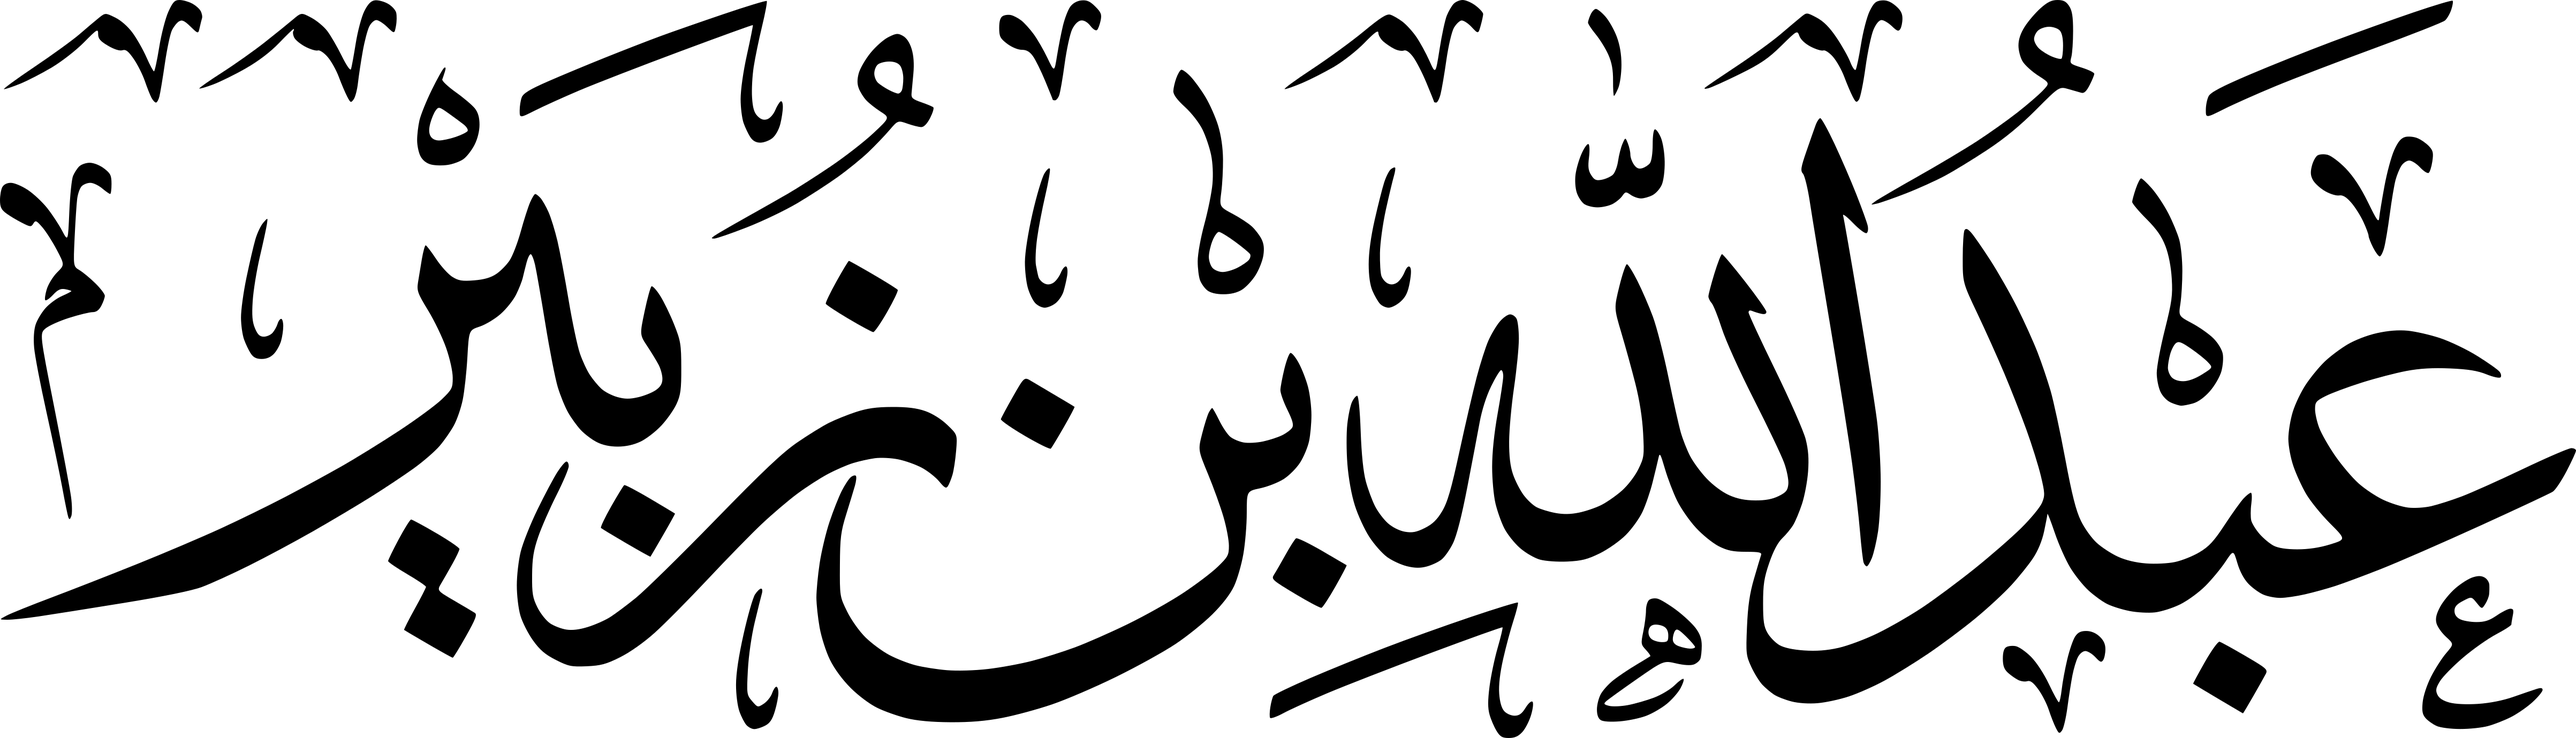
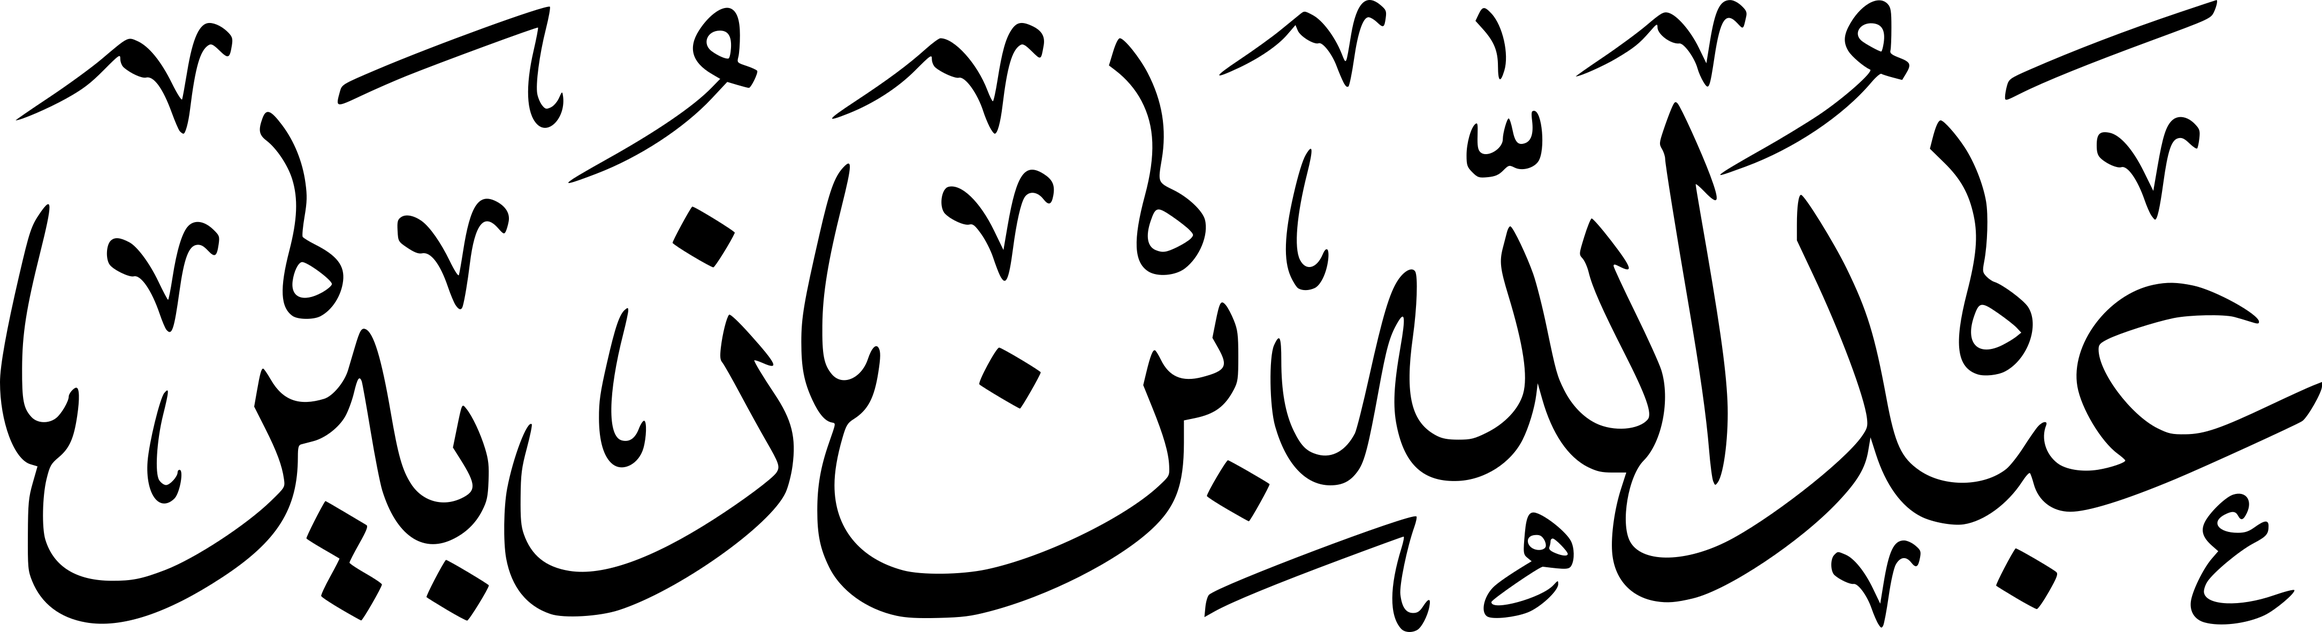
Update gambar #26 عبد الله

diff --git a/manifest.js b/manifest.js
@@ -204,8 +204,8 @@ window.CALLIGRAPHY = [
 "name": "عبد الله",
 "src": "png/26.png",
 "orig": "٢٦. عبد الله.png",
-"w": 4812,
-"h": 1379
+"w": 4339,
+"h": 1181
 },
 {
 "n": 27,
